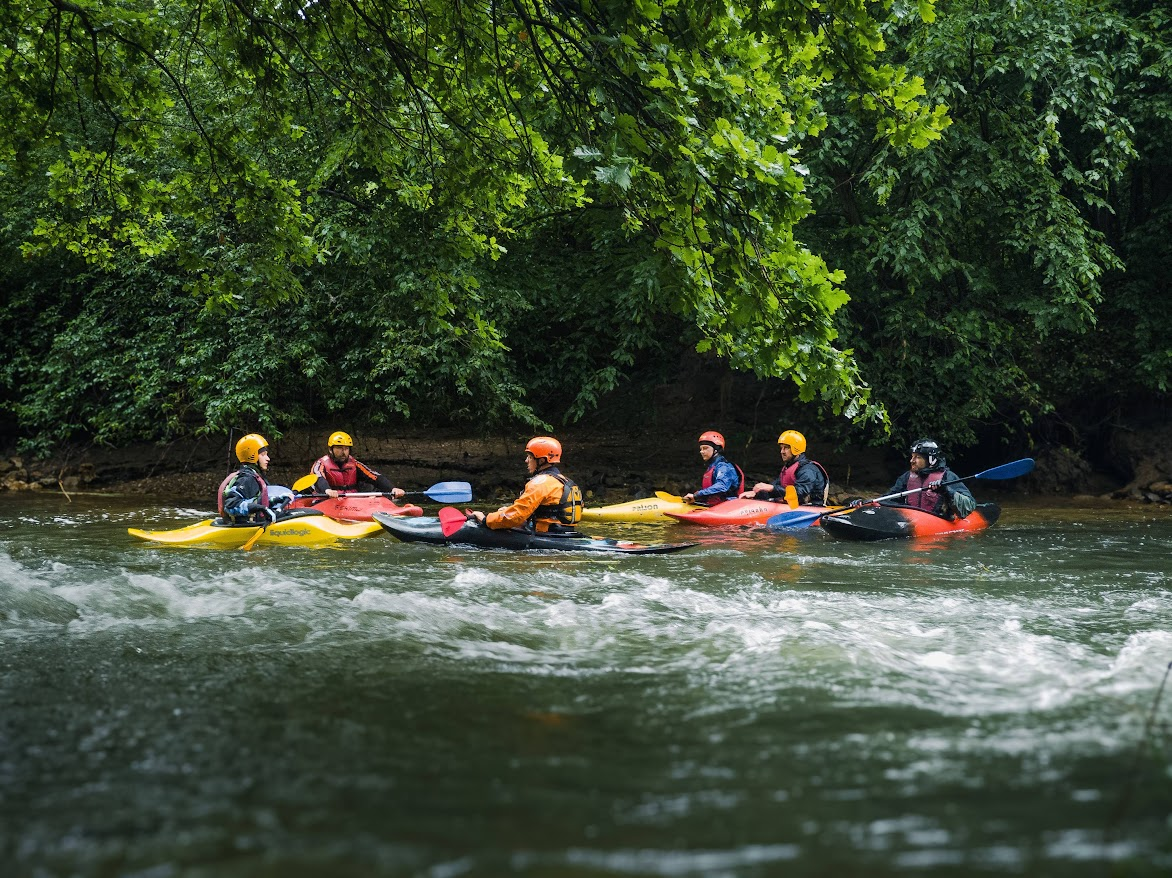
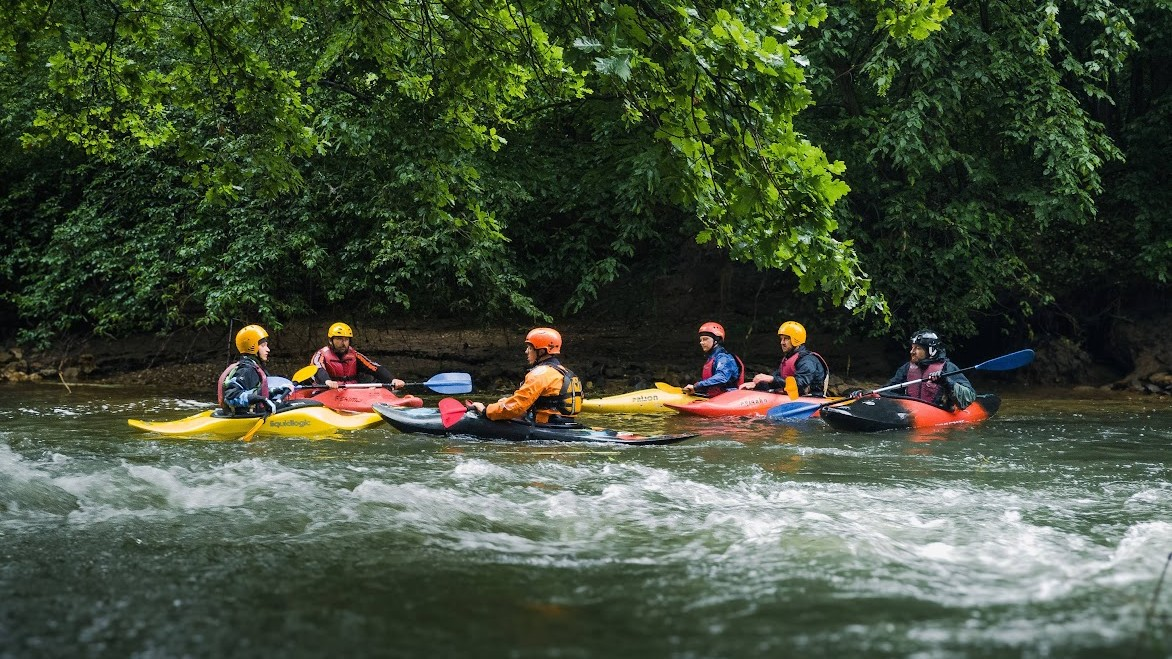
Update Fragmenty strony głównej “kim-jesteśmy”

diff --git a/content/homepage/kim-jesteśmy.md b/content/homepage/kim-jesteśmy.md
@@ -4,7 +4,7 @@ weight: 1
 ---
 Jesteśmy społecznością ludzi w każdym wieku z zajawką przede wszystkim kajakową! Łączy nas głównie kajakarstwo górskie i nizinne.
 
-![](/25970.jpg) ![](/img_20250517_175206048_dev.jpg)
+![](/img_20250517_175206048_dev.jpg) ![](/img_20250517_175206048_dev.jpg)
 
 ## Jak do nas dołączyć?
 
